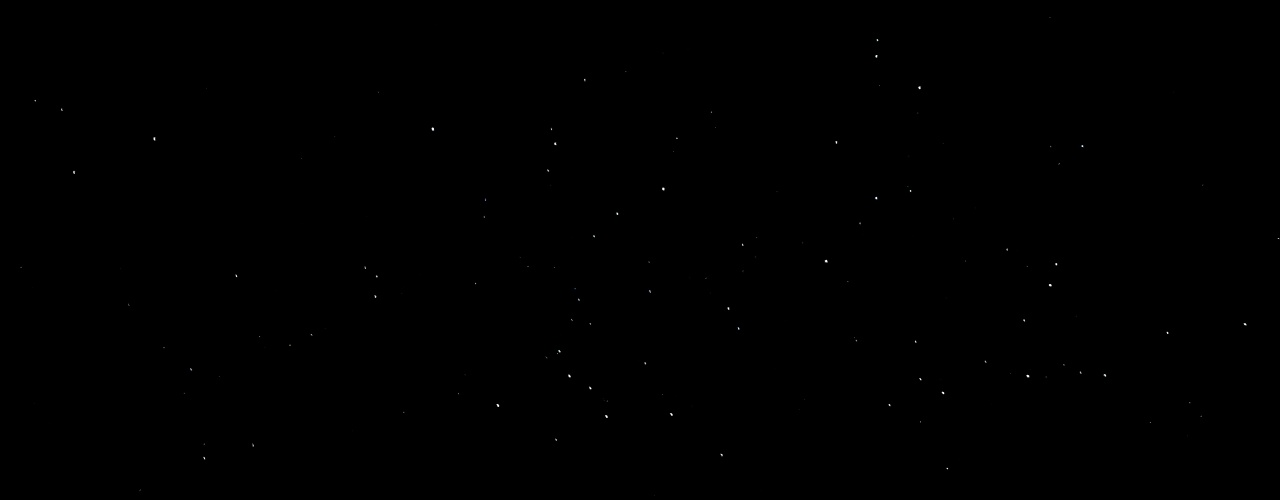
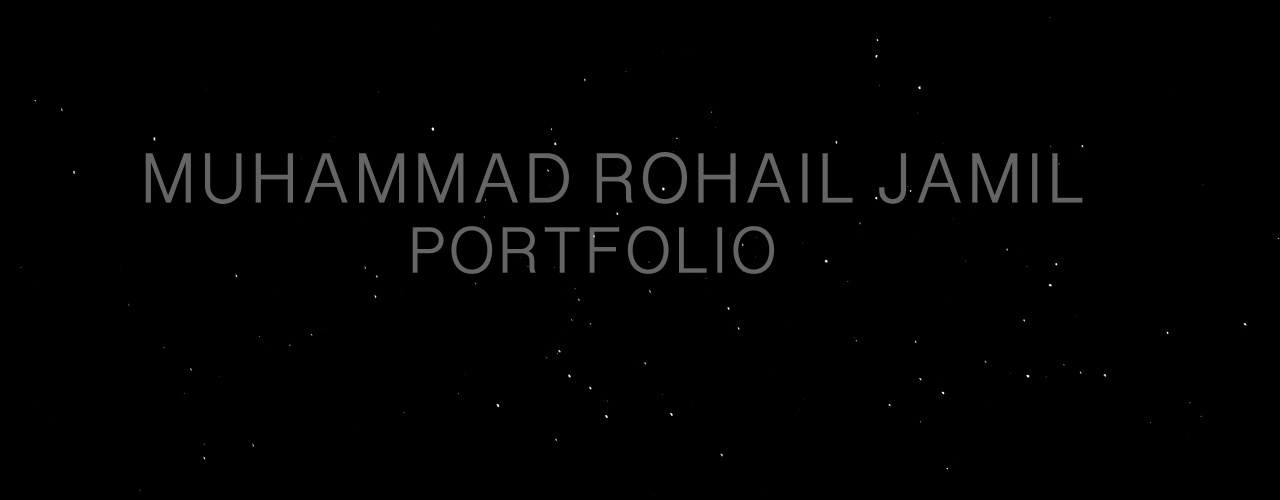
commit

Changed region(s): [[0.0938, 0.3, 0.8438, 0.42], [0.3125, 0.45, 0.625, 0.57]]

diff --git a/index.html b/index.html
@@ -27,42 +27,31 @@
 				<img src="picture/IMG_2369.JPG" width="100%" alt="">
 			</span>
 		</div>
-		<div class="mainTitle">
-			<div class="hero-title">
-				<div class="text-wraper">
-					<div class="titleNumber1">Muhammad Rohail Jamil</div>
-					<div class="titleNumber2">Portfolio</div>
-				</div>
-			</div>
-		</div>
 	</header>
 
 	<main>
 		<h2 id="aboutMe"> About Me </h2>
 		<p>I am a student pursuing my Undergraduate degree,<br>
 			with a passion for computer science including web development, <br>
-			application development and much more.</p>
+			application development and much more.
+		</p>
 
 		<h2 id="skills"> Skills </h2>
-		<p>Programming Languages: <br>
-			<ul class="b">
-				<li class="C++">C++ </li>
-				<li class="Python">Python </li>
-				<li class="Java">Java</li>
-				<li class="OOP">OOP</li>
-				<li class="HTML">HTML</li>
-				<li class="CSS">CSS</li>
-				<li class="JavaS">JavaScript</li>
-				<li class="Obj">Objective-C</li>
-				<li class="Swift">Swift</li>
-				<li class="Go">GO-Lang</li>
+		<p> Programming Languages: <br>
+			<ul>
+				<li>C++</li>
+				<li>Python</li>
+				<li>Java</li>
+				<li>OOP</li>
+				<li>HTML</li>
+				<li>CSS</li>
+				<li>JavaScript</li>
+				<li>Objective-C</li>
+				<li>Swift</li>
+				<li>GO-Lang</li>
 			</ul>
 		</p>
 
 	</main>
 
-	<footer id="pgfooter">
-
-	</footer>
-
-</body></html>
+</html>

diff --git a/style.css b/style.css
@@ -183,13 +183,8 @@ li {
 	padding: 14px 16px;
 	text-decoration: none;
 	text-align: center;
-	line-height: 1.4em;
-}
-li.C++, li.Python, li.Java, li.OOP, li.HTML {
-	margin-left: 0em;
-}
-li.CSS, li.JavaS, li.Obj, li.Swift, li.Go {
-	margin-left: 10em;
-	margin-top: -5.5em;
-	line-height: 1.3em;
+	width: 25%;
+	display: block;
+	float: left;
+
 }
